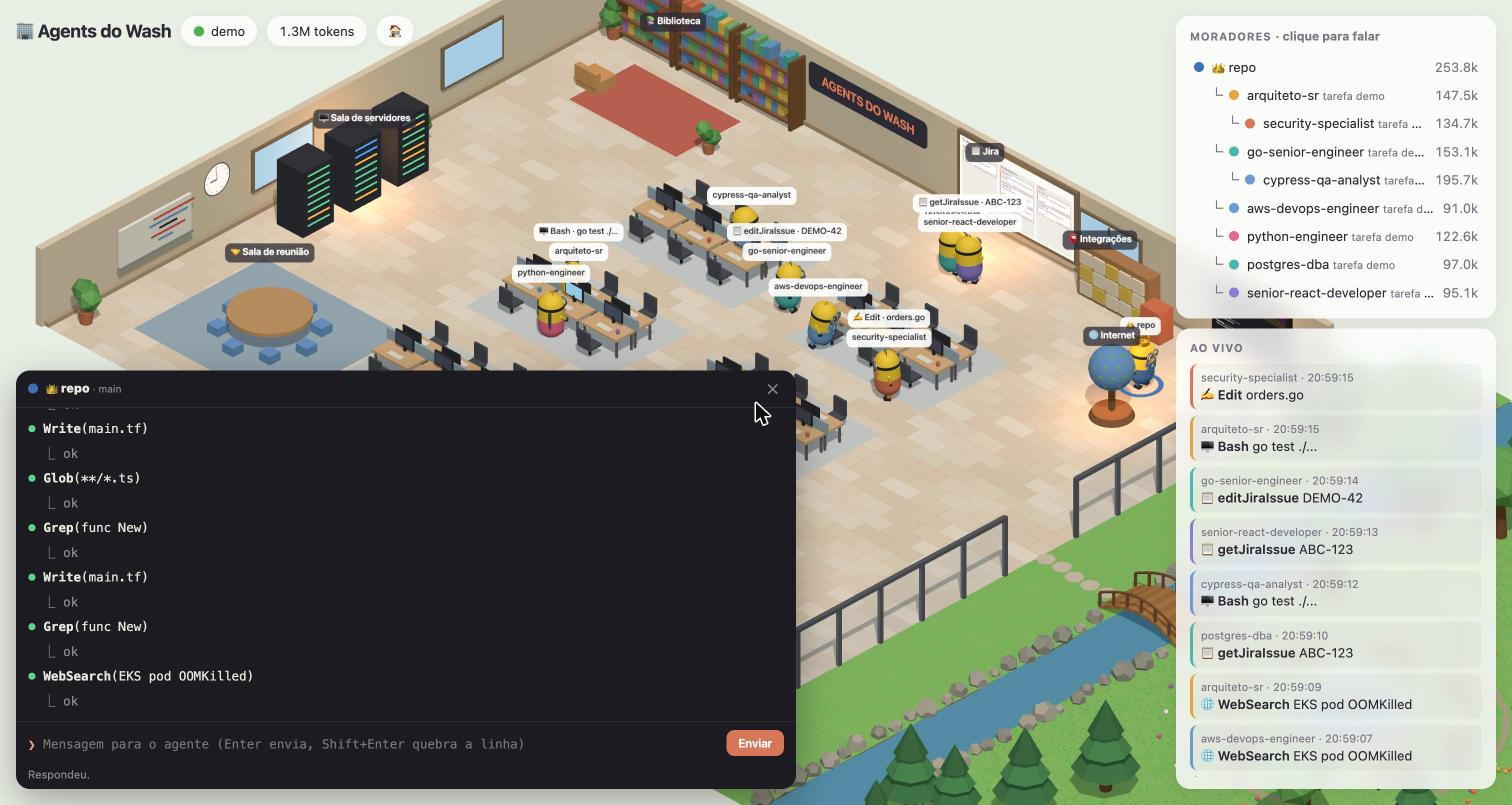
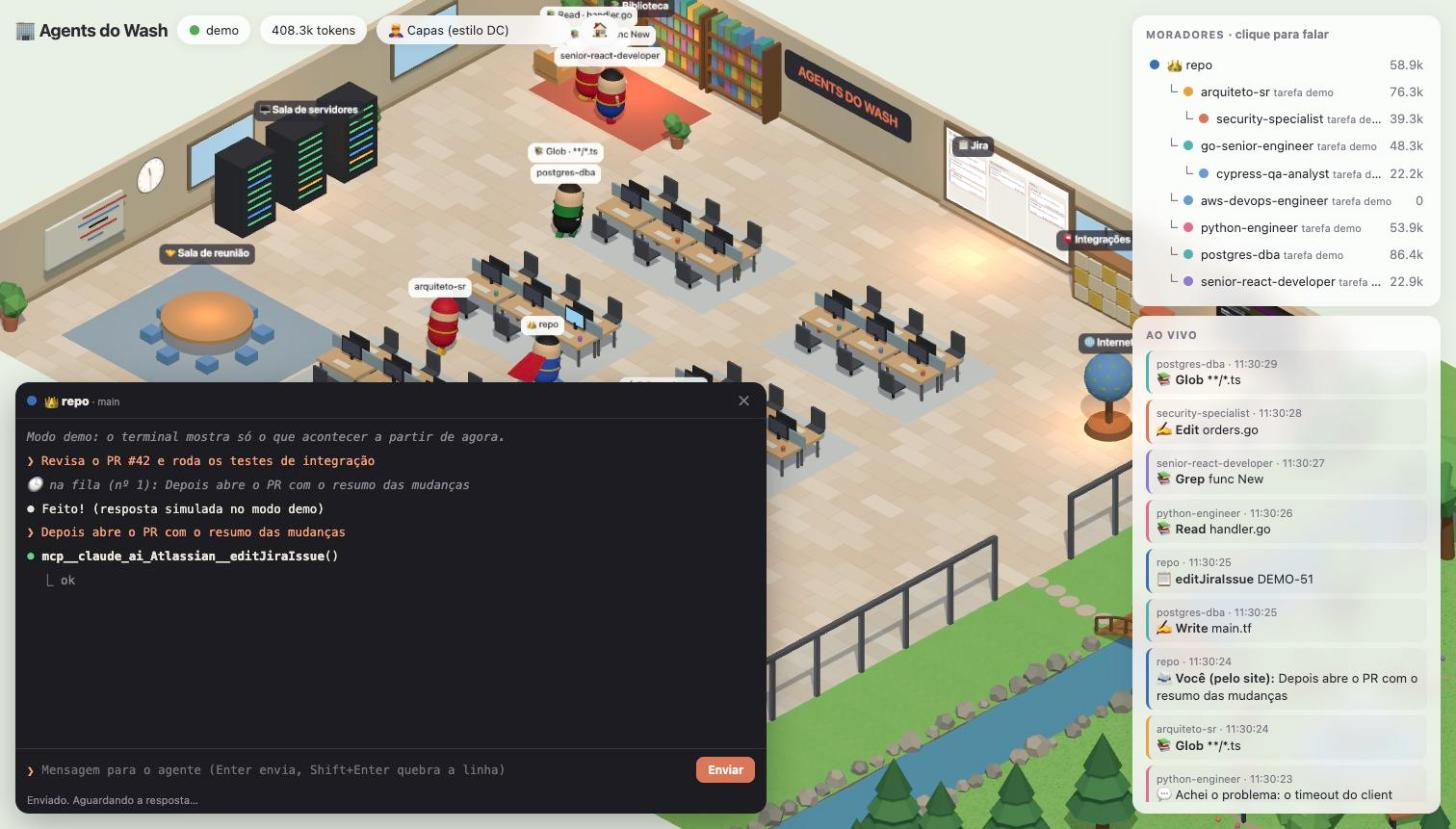
README: prints dos heróis, da fila no terminal e exemplo do Slack
- novos prints: heróis de capa e de armadura, terminal com mensagem na fila
- exemplo de conversa com o bot do Slack (lista com contexto e fila)
- modo demo simula a fila de mensagens

diff --git a/world/index.html b/world/index.html
@@ -543,19 +543,32 @@ function demoTerm(ev) {
 }
 function deselect() { selected = null; ring.visible = false; $('composer').hidden = true; }
 
+// modo demo: simula o envio, com fila quando o agente ainda está "respondendo"
+const demoQueues = new Map();
+function demoSend(id, text) {
+  const q = demoQueues.get(id) || [];
+  demoQueues.set(id, q);
+  q.push(text);
+  if (q.length > 1) { handle({ id, kind: 'sendQueued', text, position: q.length - 1, via: 'site' }); return; }
+  const run = () => {
+    const t = q[0];
+    handle({ id, kind: 'sendStart', text: t, via: 'site' });
+    if (selected?.a.id === id) termAppend([{ t: 'user', text: t }]);
+    setTimeout(() => {
+      handle({ id, kind: 'say', text: 'Feito! (resposta simulada no modo demo)' });
+      handle({ id, kind: 'sendDone', ok: true, text: 'Feito! (resposta simulada no modo demo)' });
+      q.shift();
+      if (q.length) setTimeout(run, 800);
+    }, 6000);
+  };
+  run();
+}
+
 async function send() {
   const p = selected, text = $('cText').value.trim();
   if (!p || !text) return;
   $('cSend').disabled = true;
-  if (DEMO) {
-    handle({ id: p.a.id, kind: 'sendStart', text });
-    termAppend([{ t: 'user', text }]);
-    setTimeout(() => {
-      handle({ id: p.a.id, kind: 'say', text: 'Feito! (resposta simulada no modo demo)' });
-      handle({ id: p.a.id, kind: 'sendDone', ok: true, text: 'Feito! (resposta simulada no modo demo)' });
-    }, 3000);
-    $('cText').value = ''; $('cSend').disabled = false; return;
-  }
+  if (DEMO) { demoSend(p.a.id, text); $('cText').value = ''; $('cSend').disabled = false; return; }
   try {
     const r = await fetch('/send', { method: 'POST', headers: { 'Content-Type': 'application/json', 'X-AW-Token': TOKEN },
       body: JSON.stringify({ agentId: p.a.id, text }) });

diff --git a/README.md b/README.md
@@ -9,9 +9,40 @@ Um escritório 3D com jardim onde seus agentes do Claude Code (bonequinhos amare
 | ![Bonequinhos trabalhando no escritório](docs/screenshots/bonequinhos.jpg) | ![Jardim com riacho, ponte e chafariz](docs/screenshots/jardim.jpg) |
 | **Escritório**: cada agente vai até a estação da ferramenta que está usando | **Jardim**: agentes ociosos atravessam a ponte e descansam no chafariz |
 | ![Terminal da sessão no site](docs/screenshots/terminal.jpg) | ![Quadro Kanban do Jira](docs/screenshots/jira.jpg) |
-| **Terminal**: histórico e ao vivo de cada sessão, com envio de mensagens | **Jira**: suas issues, com destaque para as que os agentes mexeram |
+| **Terminal**: histórico e ao vivo de cada sessão; mensagens para um agente ocupado entram na fila 🕒 | **Jira**: suas issues, com destaque para as que os agentes mexeram |
 
-<sub>Prints do modo demo (`/?demo`), com dados fictícios.</sub>
+### Visuais de heróis
+
+Um seletor no topo troca o visual de todos os agentes. Cada tipo de agente ganha as cores de um herói conhecido.
+
+![Heróis de capa: cores de Superman, Flash, Lanterna Verde, Mulher-Maravilha, Aquaman e Batman](docs/screenshots/herois-capas.png)
+**🦸 Capas (estilo DC)**: capa que esvoaça ao correr, máscara, cinto e emblema geométrico
+
+![Heróis de armadura: cores de Homem de Ferro, Homem-Aranha, Pantera Negra, Hulk, Thor e Capitão América](docs/screenshots/herois-armaduras.png)
+**🤖 Armaduras (estilo Marvel)**: visor de lentes, núcleo de energia, ombreiras; escudo e capa em alguns
+
+### Pelo Slack
+
+```
+você:  lista
+bot:   Agentes rodando (2)
+
+       1. 👑 dev-performance-analyzer `69b2d1a6` · 🟢 trabalhando · ativa agora
+             📁 ~/repo/dev-performance-analyzer
+             📋 pedido há 10 min: Fechar os dados de setembro e reprocessar os unmatched
+             🔧 última ação agora: Bash · Mede o progresso do reprocessamento
+             👥 subagents (1):
+                   • python-engineer — Telemetria: coletar unmatched · 🟢 · Read telemetry.py
+
+       2. 👑 refinmulnivel `a1b2c3d4` · 🟠 aguardando você · ativa há 1 min
+             ❗ Permissão: Bash node replay.cjs
+
+você:  1: roda os testes de novo
+bot:   🕒 dev-performance-analyzer está ocupado. Sua mensagem é a nº 1 da fila…
+bot:   ✅ dev-performance-analyzer respondeu: Todos os 42 testes passaram.
+```
+
+<sub>Prints do modo demo (`/?demo`), com dados fictícios; a conversa do Slack é um exemplo.</sub>
 
 ## Arquitetura
 
